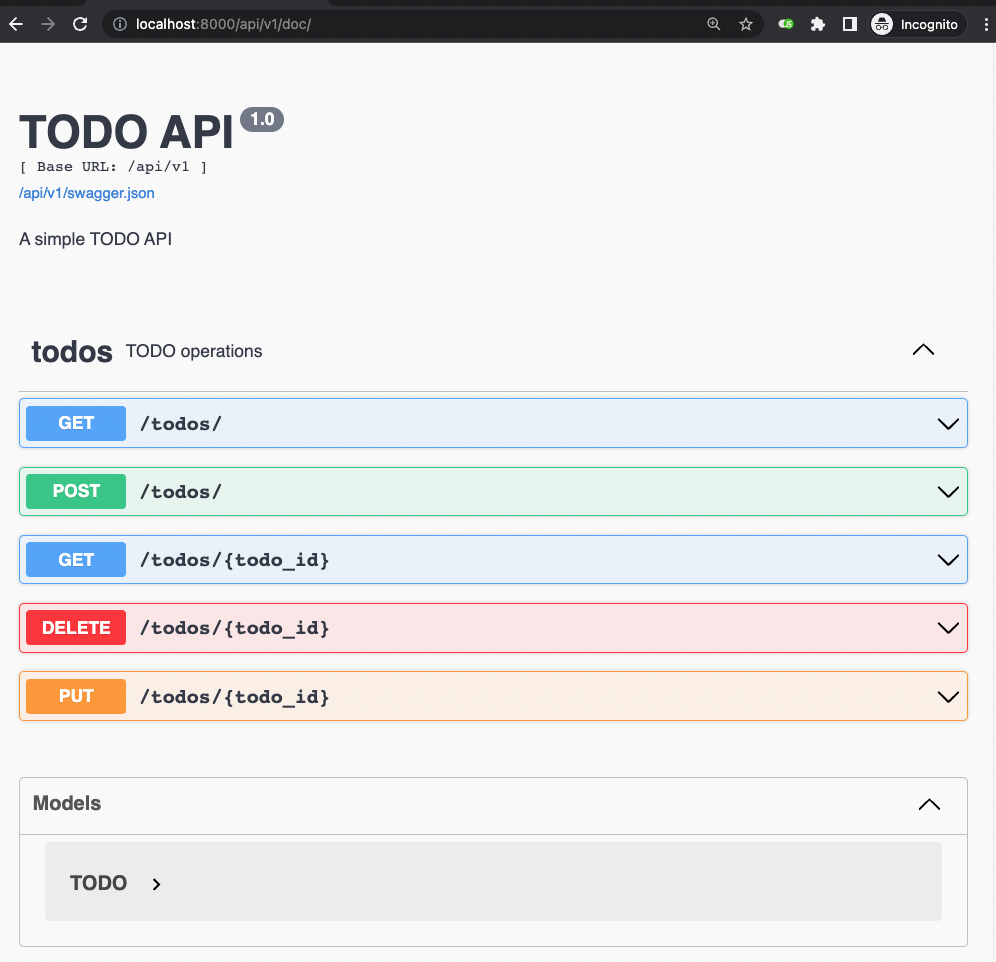
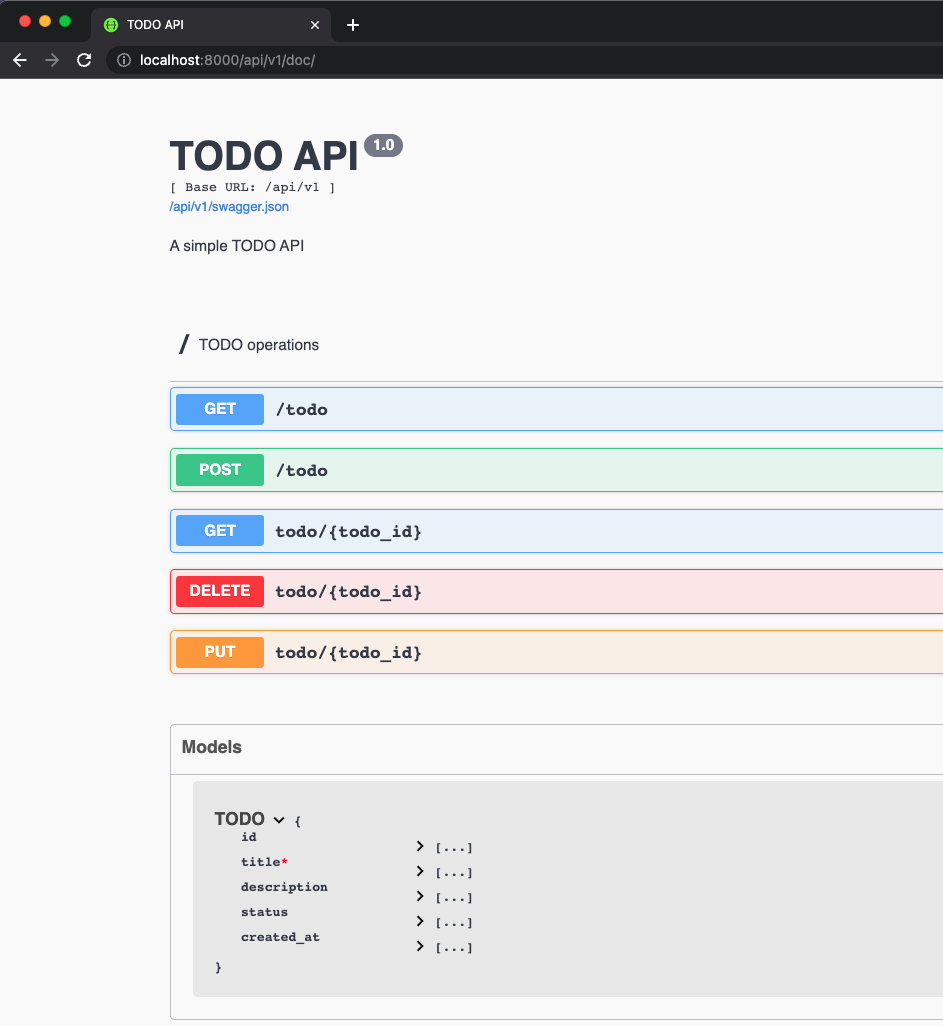
feat: updating todo endpoints get and post

diff --git a/app/api/v1/resources/todo.py b/app/api/v1/resources/todo.py
@@ -4,7 +4,7 @@ import logging
 
 logger = logging.getLogger(__name__)
 
-api = Namespace('todos', description='TODO operations')
+api = Namespace('/', description='TODO operations')
 
 todo_model = api.model('TODO', {
     'id': fields.Integer(readonly=True, description='The unique identifier of the todo'),
@@ -21,7 +21,7 @@ todo_parser.add_argument('description', type=str, default='')
 todo_parser.add_argument('status', type=str, default='todo')
 
 
-@api.route('/<int:todo_id>')
+@api.route('todo/<int:todo_id>')
 class TodoResource(Resource):
     @api.doc('get_todo')
     @api.marshal_with(todo_model)
@@ -67,7 +67,7 @@ class TodoResource(Resource):
         return {"message": "An error occurred while deleting the TODO"}, 500
 
 
-@ api.route('/')
+@ api.route('/todo')
 class TodoListResource(Resource):
     @ api.doc('list_todos')
     @ api.marshal_list_with(todo_model)

diff --git a/README.md b/README.md
@@ -28,7 +28,7 @@ cd layered-flask-todo-service/
 2. Build and run the app using Docker Compose:
 
 ```bash
-docker-compose up --build
+docker-compose up
 ```
 This command will build the Docker images and start the containers for the TODO App and its associated services (e.g., the database).
 
